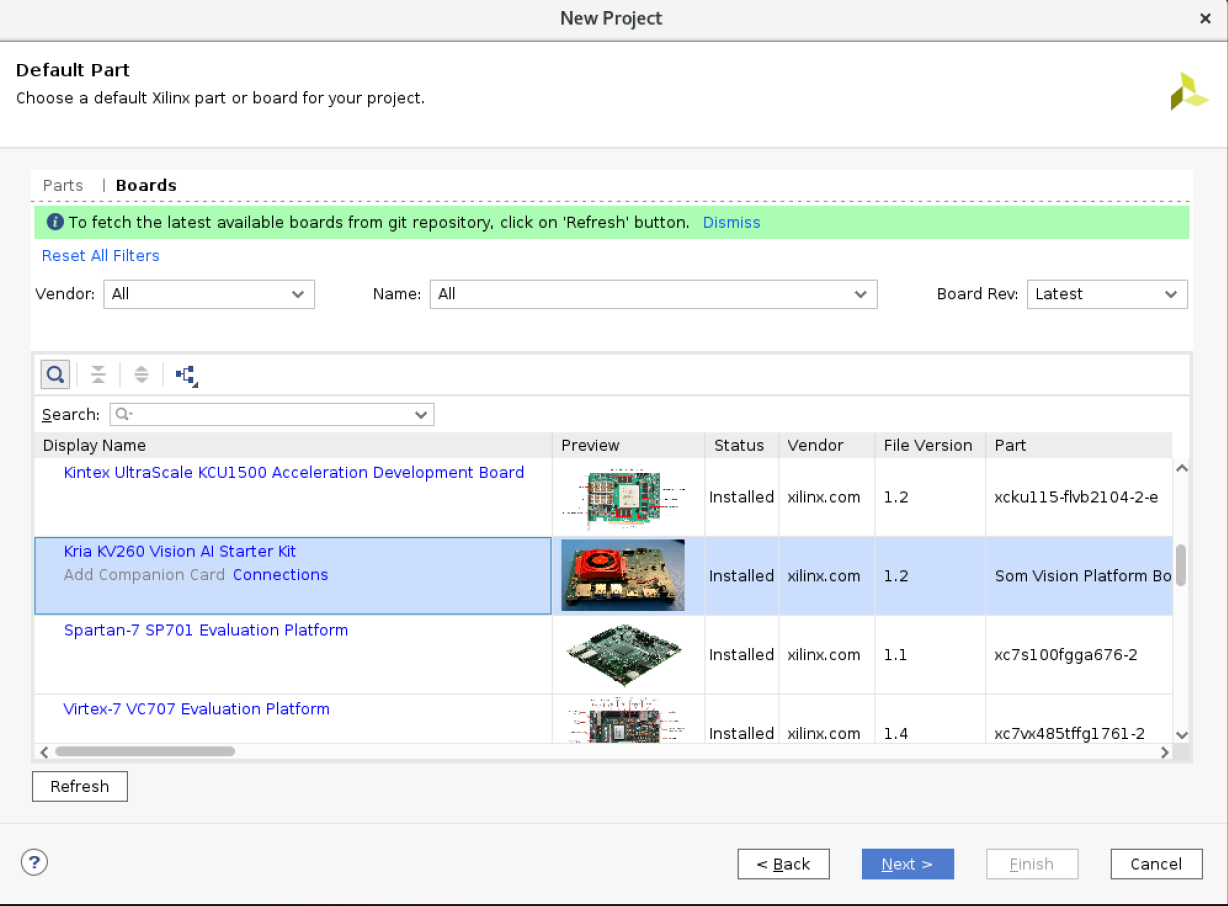
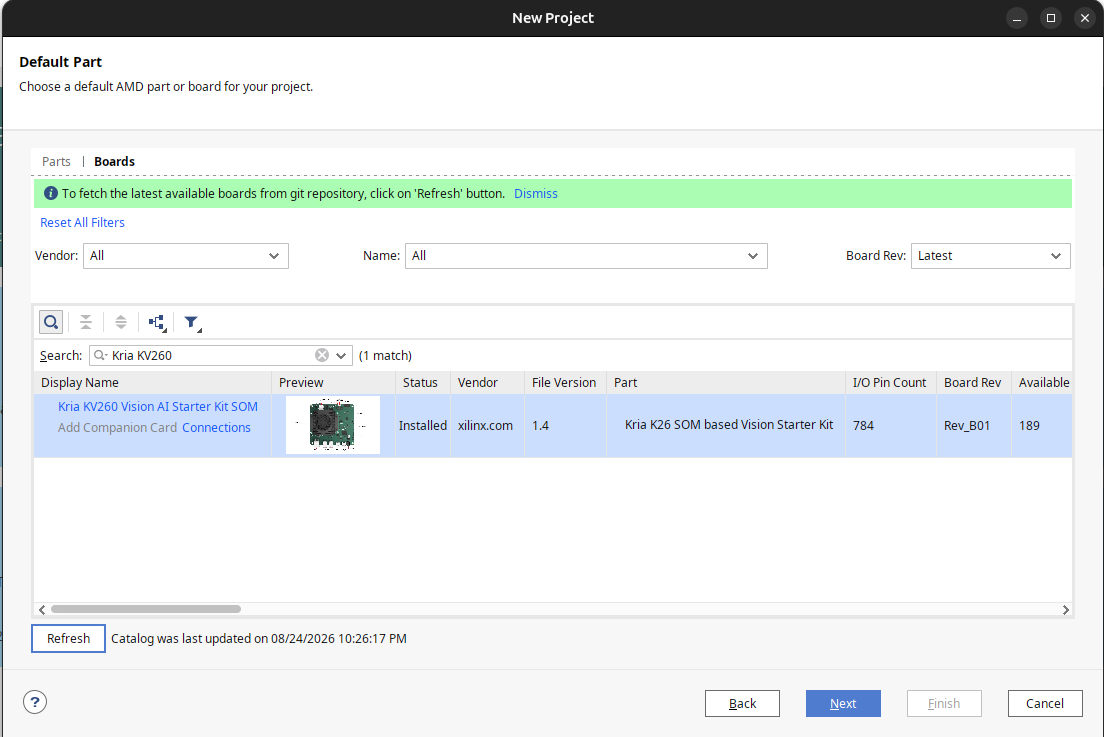
add/update images for vivado 2025

diff --git a/software/vivado/vivado-quickstart.md b/software/vivado/vivado-quickstart.md
@@ -35,7 +35,7 @@ Run Implementation
 Generate Bitstream
 ```
 
-## 1. Start Vivado [You should be using 2025.2.1 (some images were made with an older version of Vivado - we will update them soon)]
+## 1. Start Vivado [You should be using 2025.2.1]
 
 Launch **Vivado**.
 
@@ -86,15 +86,20 @@ Select:
 
 **RTL Project**
 
+![Vivado project type selector](images/vivado_rtl_project.png)
+
+Click **Next**.
+
 For this tutorial, select:
 
 **Do not specify sources at this time**
 
 Click **Next**.
 
-```{=html}
-<!-- Insert image showing the RTL Project selection. -->
-```
+**Do not specify constraints at this time**
+
+Click **Next**.
+
 
 ## 4. Select the Kria KV260 Board
 
@@ -159,7 +164,8 @@ For example:
 top_level
 ```
 
-<!-- Insert image showing Set as Top. -->
+![vivado set source as top level](images/vivado_set_as_top.png)
+
 
 > **Important:** Make sure that the correct entity is selected as the
 > top level before running synthesis.
@@ -200,9 +206,7 @@ In the **Flow Navigator**, under **Synthesis**, click:
 
 **Run Synthesis**
 
-```{=html}
-<!-- Insert image showing Run Synthesis. -->
-```
+![vivado run synthesis menu](images/vivado_synth.png)
 
 Vivado will synthesize the VHDL design into FPGA hardware resources.
 
@@ -229,9 +233,7 @@ In the **Flow Navigator**, under **Implementation**, click:
 
 **Run Implementation**
 
-```{=html}
-<!-- Insert image showing Run Implementation. -->
-```
+![vivado run implementation menu](images/vivado_run_implementation.png)
 
 Vivado will map the synthesized design onto the target FPGA and perform
 placement and routing.
@@ -249,9 +251,7 @@ After implementation completes successfully, click:
 
 under **Program and Debug** in the Flow Navigator.
 
-```{=html}
-<!-- Insert image showing Generate Bitstream. -->
-```
+![vivado generate bitstream menu](images/vivado_generate_bitstream.png)
 
 Vivado will generate the FPGA programming file.
 
@@ -343,3 +343,12 @@ A design that simulates correctly in QuestaSim is not necessarily
 synthesizable or implementable on the FPGA. Therefore, successful
 **bitstream generation in Vivado** provides the final implementation
 check before the design is used on the course FPGA server.
+run implementation
+
+## how to view schematic
+
+TODO
+
+## how to view resource usage
+
+TODO
